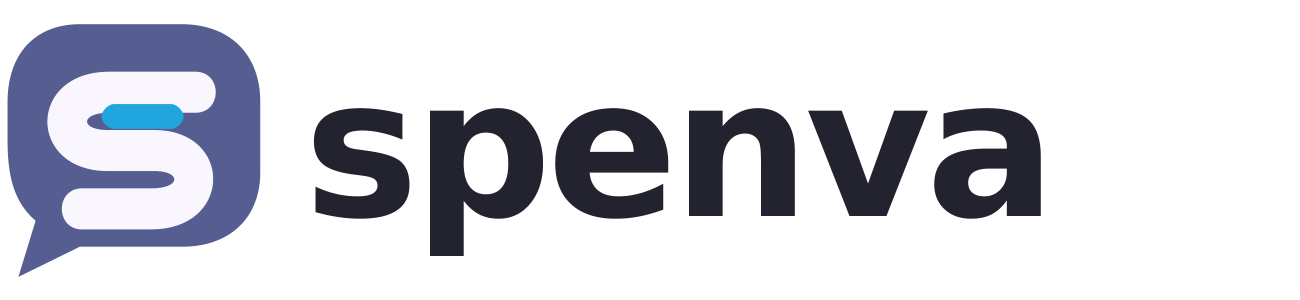
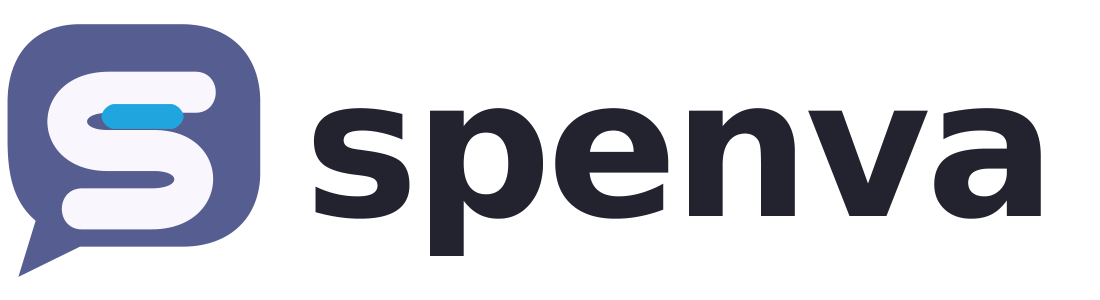
fix: align bundled brand assets; validate timeline independent of lazy viewport

diff --git a/test/chat_composer_timeline_test.dart b/test/chat_composer_timeline_test.dart
@@ -60,17 +60,17 @@ void main() {
     expect(tester.getRect(input), rect);
     tester.view.resetViewInsets();
     await tester.pumpAndSettle();
-    final scroll = tester.widget<ListView>(find.byKey(const PageStorageKey('chat_timeline'))).controller!;
-    // On a small screen the earlier message is correctly outside the lazy viewport.
-    // Compare adjacent entries at each end, rather than requiring all chats onscreen.
-    scroll.jumpTo(scroll.position.maxScrollExtent);
+    // Keyboard stability is checked on the small viewport above. Expand only
+    // for simultaneous coordinate comparisons of all lazy-list chat entries.
+    await tester.binding.setSurfaceSize(const Size(800, 1400));
     await tester.pumpAndSettle();
-    expect(tester.getTopLeft(find.text('nasi')).dy,
-      lessThan(tester.getTopLeft(find.text('berapa pengeluaran hari ini?')).dy));
-    scroll.jumpTo(0);
+    final nasi = tester.getTopLeft(find.text('nasi')).dy;
+    final question = tester.getTopLeft(find.text('berapa pengeluaran hari ini?')).dy;
+    final bensin = tester.getTopLeft(find.text('bensin')).dy;
+    expect(nasi, lessThan(question));
+    expect(question, lessThan(bensin));
+    await tester.binding.setSurfaceSize(const Size(360, 780));
     await tester.pumpAndSettle();
-    expect(tester.getTopLeft(find.text('berapa pengeluaran hari ini?')).dy,
-      lessThan(tester.getTopLeft(find.text('bensin')).dy));
     now = now.add(const Duration(seconds: 1));
     await tester.enterText(input, 'gaji 5 juta');
     await tester.testTextInput.receiveAction(TextInputAction.send);
